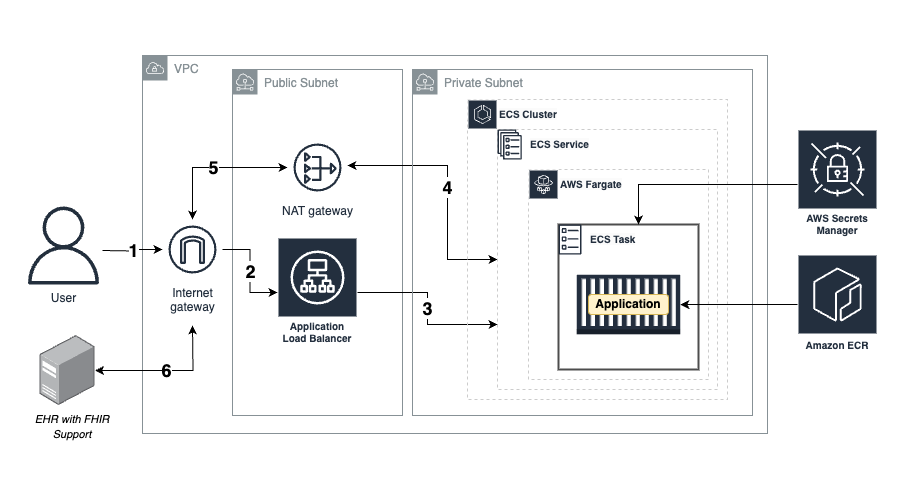
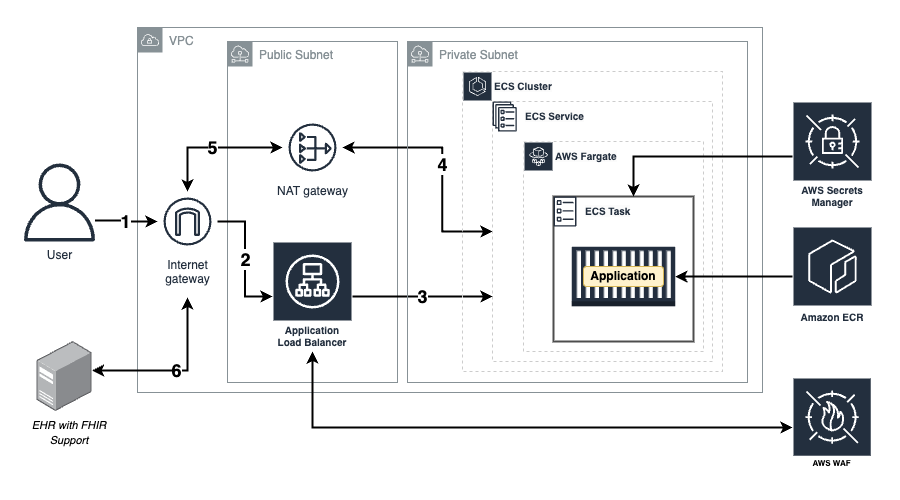
update Network diagram

diff --git a/docs/Network.md b/docs/Network.md
@@ -23,7 +23,7 @@ This application is intended to launch from an EHR not as a standalone app. Ther
 ### 2. Hosting Network Schema
 ![Hosting Network Schema](assets/Architecture-Diagram-Simplify.png)
 
-The diagram above shows the network architecture of the application using AWS. A user would request an Application Load Balancer (ALB) at port 443 (or HTTPS). The ALB then checks the health status of an ECS task and forwards the request to a container that runs on AWS Fargate. 
+The diagram above shows the network architecture of the application using AWS. A user would request an Application Load Balancer (ALB) at port 443 (or HTTPS). The ALB then checks the if the request is secure via Web Application Firewall (WAF), check health status of an ECS task, and forwards the request to a container that runs on AWS Fargate. 
 
 When a request is received by the application in a container, it then requests authorization and the FHIR server for data.
 
